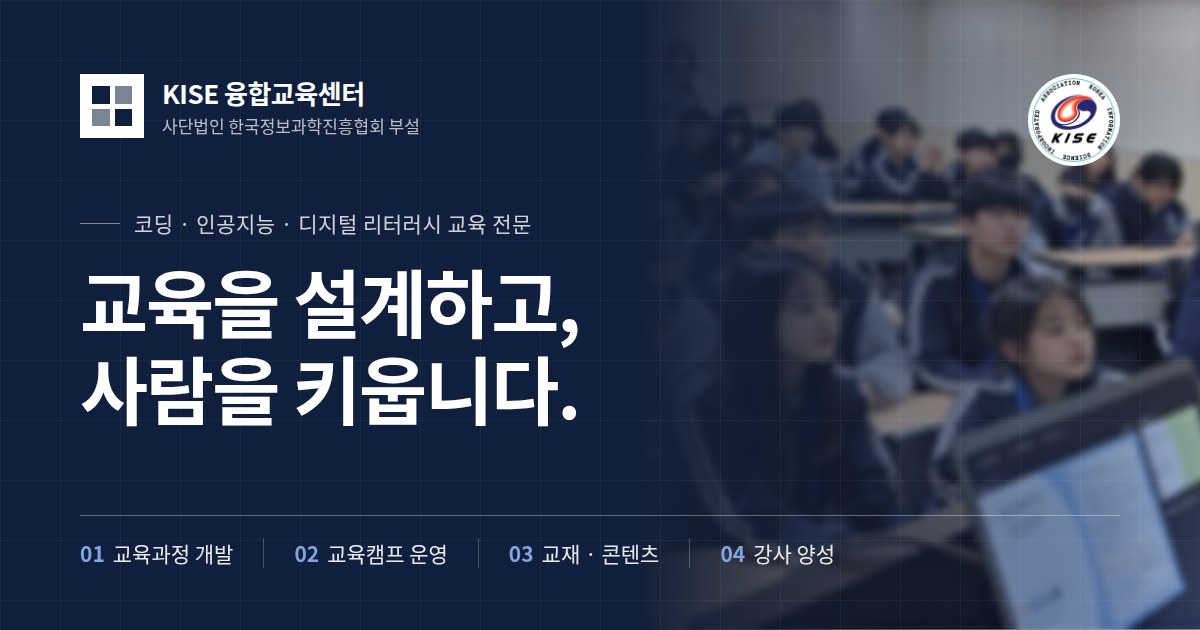
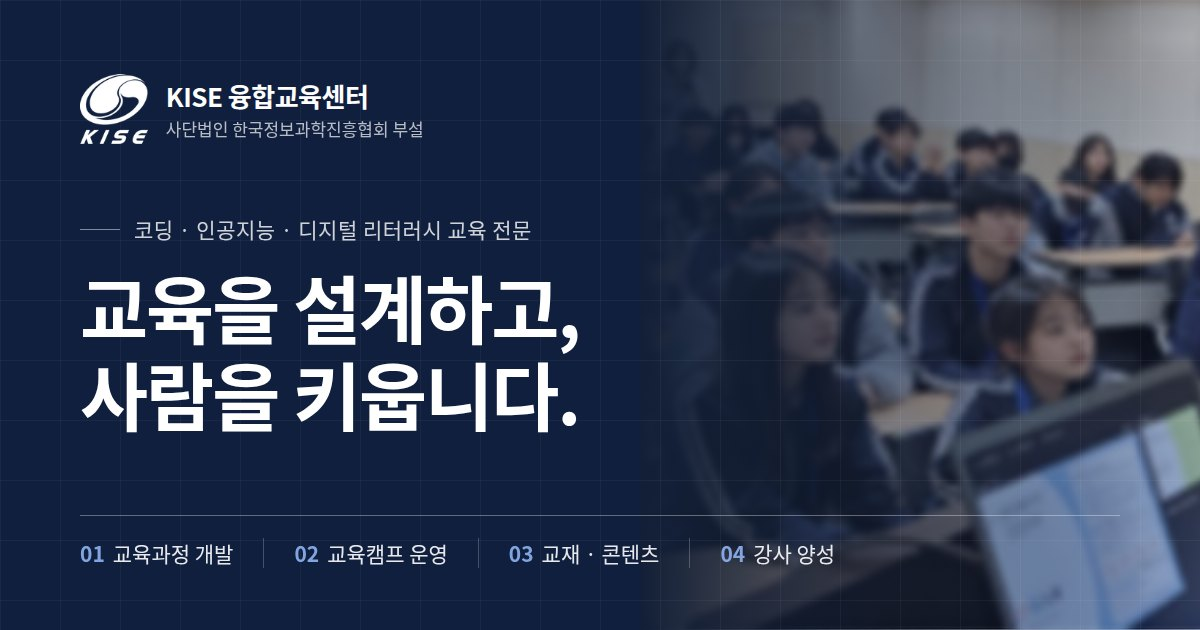
Add files via upload

diff --git a/index.html b/index.html
@@ -3,7 +3,7 @@
 <head>
 <meta charset="utf-8">
 <meta name="viewport" content="width=device-width,initial-scale=1">
-<title>AI·AX·자율주행까지, 교육과정 개발 · 강사 양성 · 캠프 · 행사를 한 곳에서 | KISE 융합교육센터</title>
+<title>KISE 융합교육센터 | AI·AX·자율주행까지, 교육과정 개발 · 강사 양성 · 캠프 · 행사를 한 곳에서</title>
 <meta name="description" content="AI·AX·자율주행까지, 교육과정 개발 · 강사 양성 · 캠프 · 행사를 한 곳에서. 사단법인 한국정보과학진흥협회 부설 융합교육센터.">
 <meta name="google-site-verification" content="S2HKibVgSo1s0UN5unEG1mGlIVpbHbxUyxO6qGMf5qE" />
 <meta name="naver-site-verification" content="6fa92ba8ec7aceb3117d5da00f62fa6b9939b90c" />
@@ -18,8 +18,8 @@
 <meta property="og:url" content="https://center.kise.or.kr/">
 <meta property="og:title" content="KISE 융합교육센터 — 교육을 설계하고, 사람을 키웁니다">
 <meta property="og:description" content="AI·AX·자율주행까지, 교육과정 개발 · 강사 양성 · 캠프 · 행사를 한 곳에서">
-<meta property="og:image" content="https://center-omega-seven.vercel.app/og-image.jpg">
-<meta property="og:image:secure_url" content="https://center-omega-seven.vercel.app/og-image.jpg">
+<meta property="og:image" content="https://center-omega-seven.vercel.app/og-image.jpg?v=3">
+<meta property="og:image:secure_url" content="https://center-omega-seven.vercel.app/og-image.jpg?v=3">
 <meta property="og:image:type" content="image/jpeg">
 <meta property="og:image:width" content="1200">
 <meta property="og:image:height" content="630">
@@ -27,7 +27,7 @@
 <meta name="twitter:card" content="summary_large_image">
 <meta name="twitter:title" content="KISE 융합교육센터 — 교육을 설계하고, 사람을 키웁니다">
 <meta name="twitter:description" content="AI·AX·자율주행까지, 교육과정 개발 · 강사 양성 · 캠프 · 행사를 한 곳에서">
-<meta name="twitter:image" content="https://center-omega-seven.vercel.app/og-image.jpg">
+<meta name="twitter:image" content="https://center-omega-seven.vercel.app/og-image.jpg?v=3">
 <style>body{margin:0}</style>
 <script src="https://cdn.jsdelivr.net/npm/@supabase/supabase-js@2"></script>
 </head>
